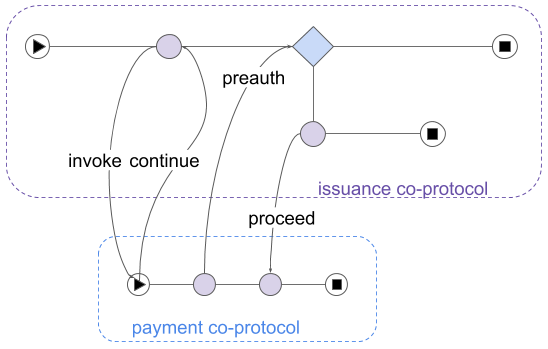
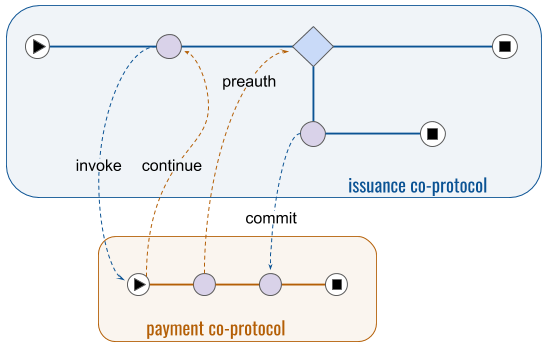
Partial update

diff --git a/concepts/0478-coprotocols/README.md b/concepts/0478-coprotocols/README.md
@@ -2,33 +2,31 @@
 - Authors: [Daniel Hardman](daniel.hardman@gmail.com)
 - Status: [PROPOSED](/README.md#proposed)
 - Since: 2020-05-19
-- Status Note: Socialized on Aries community call in Feb 2020, using [these slides](https://docs.google.com/presentation/d/17hk6QqLW5M9E4TBPZwXIUBu9eEinMNXReceyZTF4LpA/edit). Discussed again in May 2020.
+- Status Note: Socialized on Aries community call in Feb 2020, using [these slides](https://docs.google.com/presentation/d/17hk6QqLW5M9E4TBPZwXIUBu9eEinMNXReceyZTF4LpA/edit). Discussed again in May 2020. Source files for graphics are either checked in or are published at https://j.mp/2XgyjH3.
 - Start Date: 2020-02-03
 - Tags: feature, protocol
 
-![icon](icon.png)
-
-(originals of graphics at https://j.mp/2XgyjH3)
+[![icon](icon.png)](https://j.mp/2XgyjH3)
 
 ## Summary
 
-Explains how one protocol can invoke and influence others, giving inputs and receiving outputs and errors.
+Explains how one protocol can invoke and interact with others, giving inputs and receiving outputs and errors.
 
 ## Motivation
 
-It's common for complex business workflows to be composed from smaller, configurable units of logic. It's also common for multiple processes to evolve in interrelated ways. Achieving flexible reuse like this is one of the major goals of protocols built atop DIDComm. We need a standard methodology for doing so.
+It's common for complex business workflows to be composed from smaller, configurable units of logic. It's also common for multiple processes to unfold in interrelated ways, such that a complex goal is choreagraphed from semi-independent tasks. Enabling flexible constructions like this is one of the major goals of protocols built atop DIDComm. We need a standard methodology for doing so.
 
 ## Tutorial
 
 A [protocol is any recipe for a stateful interaction](../0003-protocols/README.md). [DIDComm](../0005-didcomm/README.md) itself is a protocol, as are many primitives atop which it is built, such as HTTP, Diffie-Hellman key exchange, and so forth. However, when we talk about protocols in decentralized identity, without any qualifiers, we usually mean application-level interactions like [credential issuance](../../features/0036-issue-credential/README.md), [feature discovery](../../features/0031-discover-features/README.md), [third-party introductions](../../features/0028-introduce/README.md), and so forth. These protocols are message-based interactions that use DIDComm.
 
-We want these protocols to be __composable__. In the middle of issuing credentials, we want to negotiate payment -- and in the middle of negotiating payment, we want to handle a network brownout and reconnect. We could build payment into credential issuance, and network connection management into payment, but this runs counter to the [DRY principle](https://en.wikipedia.org/wiki/Don%27t_repeat_yourself) and to general best practice in encapsulation. A good developer writing a script to issue credentials would probably isolate payment and connection management logic in separate functions or libraries, and would strive for [loose coupling](https://en.wikipedia.org/wiki/Loose_coupling) so each could evolve independently.
+We want these protocols to be __composable__. In the middle of issuing credentials, we want to challenge the potential holder for proof -- and in the middle of challenging for proof, maybe we want to negotiate payment. We could build proving into issuing, and payment into proving, but this runs counter to the [DRY principle](https://en.wikipedia.org/wiki/Don%27t_repeat_yourself) and to general best practice in encapsulation. A good developer writing a script to issue credentials would probably isolate payment and proving logic in separate functions or libraries, and would strive for [loose coupling](https://en.wikipedia.org/wiki/Loose_coupling) so each could evolve independently.
 
-Agents that run protocols have similar goals to the script developer. How we achieve them is the subject of this RFC.
+Agents that run protocols have goals like those of the script developer. How we achieve them is the subject of this RFC.
 
 ### Subroutines
 
-In the world of computer science, a subroutine is a foundational abstraction. It breaks logic into small, reusable chunks that are easy for a human to understand and document, and it formalizes their interfaces. Code calls a subroutine by referencing it via name or address, and providing specified arguments as input. The subroutine computes on this input, eventually producing an output; the details don't interest the caller. While the subroutine is busy, the caller typically waits. Callers can often avoid recompilation when encapsulated details in subroutines change. Implementations of subroutines can come from pluggable libraries. These can be written by different programmers in different programming languages, as long as a calling convention is shared by both parties.
+In the world of computer science, a subroutine is a vital abstraction for complex flows. It breaks logic into small, reusable chunks that are easy for a human to understand and document, and it formalizes their interfaces. Code calls a subroutine by referencing it via name or address, providing specified arguments as input. The subroutine computes on this input, eventually producing an output; the details don't interest the caller. While the subroutine is busy, the caller typically waits. Callers can often avoid recompilation when details inside subroutines change. Subroutines can come from pluggable libraries. These can be written by different programmers in different programming languages, as long as a calling convention is shared.
 
 Thinking of protocols as analogs to subroutines suggests some interesting questions:  
 
@@ -36,28 +34,35 @@ Thinking of protocols as analogs to subroutines suggests some interesting questi
 * How does a protocol emit an output?
 * What is the calling convention?
 * How do errors propagate (or exceptions get thrown and handled)?
+* How can we make protocols work like higher-order functions (functions that take other functions as parameters)?
 
 ### Coroutines
 
-Before we answer these questions, let's think about a generalization of subroutines that's slightly less familiar to some programmers: __coroutines__. As a category, coroutines are more flexible and powerful than subroutines; subroutines are just their simplest variant. Coroutines may be, but aren't required to be, derivative call-stack "children" of their callers; they can have complex lifecycles that begin or end outside the caller's lifespan. Coroutines may receive inputs at multiple points, not just at launch. They may yield outputs at multiple points, too.
+Before we answer these questions, let's think about a generalization of subroutines that's slightly less familiar to some programmers: __coroutines__. Coroutines achieve the same encapsulation and reusability as subroutines, but as a category they are more flexible and powerful. Coroutines may be, but aren't required to be, call-stack "children" of their callers; they may have complex lifecycles that begin or end outside the caller's lifespan. Coroutines may receive inputs at multiple points, not just at launch. They may yield outputs at multiple points, too. Subroutines are just the simplest variant of coroutines.
 
-The flexiblity of coroutines gives options to programmers, and it explains why most programming languages evolve to offer them as first-class constructs when they encounter demanding requirements for asynchronicity, performance, or scale. For example, early versions of python lacked the concept of coroutines; if you wrote a loop over `range(1, 1000000)`, python allocated a container holding 1 million numbers, and then iterated over them. When generators (a type of coroutine) were added to the language, the underlying logic changed. Now `range(1, 1000000)` is a coroutine invocation that trades execution state back and forth with its sibling caller routine. The first time it is invoked, it receives and stores its input values, then produces one output (the lower bound of the range). Each subsequent time through the loop it is invoked again; it increments its internal state and yields a new output back to the caller. No allocations occur, and an early break from the loop wastes nothing.
+The flexiblity of coroutines gives options to programmers, and it explains why most programming languages evolve to offer them as first-class constructs when they encounter demanding requirements for asynchronicity, performance, or scale. For example, early versions of python lacked the concept of coroutines; if you wrote a loop over `range(1, 1000000)`, python allocated and filled a container holding 1 million numbers, and then iterated over the container. When generators (a type of coroutine) were added to the language, the underlying logic changed. Now `range(1, 1000000)` is a coroutine invocation that trades execution state back and forth with its sibling caller routine. The first time it is invoked, it receives and stores its input values, then produces one output (the lower bound of the range). Each subsequent time through the loop it is invoked again; it increments its internal state and yields a new output back to the caller. No allocations occur, and an early break from the loop wastes nothing.
 
-If we want to choose one conceptual parallel for how protocols relate to one another, we should think of them a coroutines, not subroutines. Although payment as a subroutine inside credential issuance sounds plausible at first glance, it turns out to be clumsy under deeper analysis. A payment protocol yields more than one output -- typically a preauthorization at an intermediate stage, then a final outcome when it completes. At the preauthorization stage, it should accept graceful cancellation (a second input, after launch). And high-speed, bulk issuance of credentials is likely to benefit from payment and issuance being partly parallelized.
+If we want to choose one conceptual parallel for how protocols relate to one another, we should think of them as coroutines, not subroutines; doing so constrains us less. Although payment as a subroutine inside credential issuance sounds plausible at first glance, it turns out to be clumsy under deeper analysis. A payment protocol yields more than one output -- typically a preauthorization at an intermediate stage, then a final outcome when it completes. At the preauthorization stage, it should accept graceful cancellation (a second input, after launch). And high-speed, bulk issuance of credentials is likely to benefit from payment and issuance being partly parallelized instead of purely sequential.
 
 ![diagram of payment as a coprotocol](payment-coprotocol.png)
 
-Similarly, a handshake protocol like [DID Exchange](../../features/0023-did-exchange/README.md) or [Connection](../../features/0160/connection-protocol/README.md) is a coprotocol of [Introduce](../../features/0028-introduce/README.md); this makes it easy for Introduce to complete as soon as the handshake begins, instead of waiting for it to finish so it can contain its full lifecycle like a subroutine call.
+Similarly, a handshake protocol like [DID Exchange](../../features/0023-did-exchange/README.md) or [Connection](../../features/0160/connection-protocol/README.md) is best framed as a coprotocol of [Introduce](../../features/0028-introduce/README.md); this makes it easy for Introduce to complete as soon as the handshake begins, instead of waiting for the handshake to finish as if it were a subroutine.
  
- By thinking of protocols as coroutines, we can simplify to subroutines where that makes sense, but tap the added flexibility and power of coroutines where a design problem demands it.
+By thinking of cross-protocol interactions like coroutine interactions, we get the best of both worlds: where the interaction is just subroutine-like, the model lets us simplify; where we need more flexibility and power, the model still fits.
+ 
+Protocols don't have to support the types of coprotocol interactions we're describing here; protocols developed by Aries developers have already proven their value even without it. But to unlock their full potential, adding __coprotocol support__ to new and existing protocol definitions may be worthwhile. This requires only a modest update to a protocol RFC, and creates little extra work for implementers.
 
-### The simple answer that falls apart
+### The simple approach that falls apart
 
-When the DIDComm community first began thinking about one protocol invoking another, we imagined that the interface to the called coprotocol would simply be its first message. For example, if verfiable credential issuer Acme Corp wanted to demand payment for a credential during an issuance protocol with Bob, Acme would simply send to Bob a `request_payment` message that was the first message in a `make_payment` protocol. This would create an instance of the payment protocol running beside issuance; issuance could then wait until it completes before proceeding.
+When the DIDComm community first began thinking about one protocol invoking another, we imagined that the interface to the called coprotocol would simply be its first message. For example, if verfiable credential issuer Acme Corp wanted to demand payment for a credential during an issuance protocol with Bob, Acme would send to Bob a `request_payment` message that constituted the first message in a `make_payment` protocol. This would create an instance of the payment protocol running alongside issuance; issuance could then wait until it completed before proceeding. And Bob wouldn't need to lift a finger to make it work, if he already supported the payment protocol.
 
 Unfortunately, this approach looks less attractive after study: 
 
-* It creates a tight coupling between issuance and payment. The logic inside issuance must know exactly what data format, semantics, and versioning rules apply to the payment protocol, in order to generate its first message. If the payment protocol changes, the issuance protocol breaks. There is no room to discover a payment protocol from one of several alternatives that both parties mutually support.
+* It creates a tight coupling between issuance and payment. The logic inside issuance must know exactly what data format, semantics, and versioning rules apply to the payment protocol, in order to generate its first message. If the payment protocol changes, the issuance protocol breaks. There is no flexibility in issuance to negotiate an optimal payment protocol from among several alternatives that both parties support. The implementation of issuance is too opinionated about how to approach a logically independent task.
+
+* It doesn't give Bob any context. We don't want to inconvenience Bob to support payment in conjunction with issuance, but we DO want Bob to know that the payment protocol instance he participates in is related to the credential issuance protocol that's also underway. This is more than just connecting the two with DIDComm's [message threading](../0008-message-id-and-threading/README.md); if one protocol is abandoned or completes or fails, something probably needs to happen in the other.
+
+* It doesn't let Bob be the first mover. What if Bob should be requesting payment instead of Acme? (The [Protocol Role Request Protocol](https://github.com/hyperledger/aries-rfcs/blob/29c982e80bf29763a29ac9d036b332acd4b6f525/features/0474-protocol-role-request/index.md) partly addresses this need, but [lacks a formal way to give Bob data as input](https://github.com/hyperledger/aries-rfcs/pull/474/files#r424683769).)  
 
 * It doesn't explain how the payment protocol emits output that its caller can consume. Individual agents could code proprietary answers to this question, but interoperability would be lost.
 
@@ -65,62 +70,52 @@ Unfortunately, this approach looks less attractive after study:
 
 * It doesn't explain how errors propagate, or how to decide what they mean for the calling protocol.
 
-### General Interface
+### General Interface Needs
 
-What we want, instead, is a formal declaration of a protocol's properties. Theoretically, it might resemble a function prototype in some ways, in that it would describe the inputs that launch the protocol, and it might also describe an output and/or error that the protocol emits when it finishes. But it must also be capable of describing errors, inputs, and outputs at other stages of the protocol's lifecycle.
+What we want, instead, is a formal declaration of something a bit like a coprotocol's "function signature." It needs to describe the inputs that launch the protocol, and the outputs and/or errors emitted as it finishes. It should hide implementation details and remain stable across irrelevant internal changes. 
 
-Unlike normal functions in code, protocols nearly always involve another codebase running remotely (the other party in the protocol); thus, the interface also needs to include enough information to dynamically discover/bind pluggable implementations at run-time, like a `load_library()` call in Posix.
+We need to bind compatible coprotocols to one another using the metadata in these declarations. And since coprotocols will have to satisfy a remote party, not just a local one, our binding needs to work well dynamically, and late, and with optional, possibly overlapping plugins providing implementations. This suggests that our declarations must be rich and flexible about binding criteria &mdash; it must be possible to match on something more than just a coprotocol name and/or arg count+type.
 
-Also unlike functions, protocol interfaces need to be partitioned by role; the experience of a payer and a payee with respect to a payment protocol may be quite different, so the interface used by a coprotocol will vary by which role the coprotocol instance embodies.
+An interesting divergence from the function signature parallel is that we may have to describe inputs and outputs (and errors) at multiple __interaction points__, not just the coprotocol's initial invocation. 
 
-Suppose we have an imaginary payment protocol with 2 roles, `payer` and `payee`, in which the payer goes through 3 states: `authorizing` (when it is seeking a pre-authorization), `uncommitted` (when it has a preauthorization but has not yet been told to finalize payment), and `done` (when the final outcome of the payment is known. The structure in the following example might constitutes a formal __coprotocol interface__ for the `payer` role:
+Another subtlety is that protocol interfaces need to be partitioned by role; the experience of a payer and a payee with respect to a payment protocol may be quite different. The interface offered by a coprotocol must vary by which role the invoked coprotocol instance embodies.
 
-```jsonc
-{
-    // Used in discovery. Takes the form: role@goal-name/goal-version.
-    //
-    // A protocol that needs to depend on a co-protocol should
-    // consider being willing to bind to any protocol that implements
-    // the role it needs, with the goal it has. This allows code on
-    // one agent to find a list of implementations it might use, and
-    // then negotiate with a remote party until a compatible co-protocol
-    // is chosen on the other side.
-    //
-    // Goals should be defined in their own RFCs. Based on what appears
-    // below, we'd expect to find an Aries RFC about a "make-payment"
-    // goal. Goals have known semantics but stop short of the implementation
-    // detail provided in protocol RFCs.
-    "goal": "payer@make-payment/1.0",
+Given all these considerations, we choose to describe coprotocol interfaces using a _set_ of function signatures, not just _one_. However, we use an function-like notation to make them as terse and intuitive as possible for developers.
 
-    // A set of points at which the coprotocol can interact.
-    "interactions": [
-        {
-            "state_name": null, // null defined to mean "at invocation"
-            // To launch this as a co-protocol, you must provide 2 or 3
-            // inputs: amount, currency, and note.
-            "inputs": [
-                {"name": "amount", "ex": 1.23},
-                {"name": "currency", "ex": "INR"},
-                {"name": "note", "ex": "For commercial driver's license credential.", optional: true}
-            ]
-        },
-        {
-            "state_name": "(END)" // reserved to mean "on termination"
-        }
-        {
-            "state_name": "(END)" // reserved to mean "on termination"
-        }
-    ]
-}
+#### Example
+
+Suppose we are writing a credential issuance protocol, and we want to use coprotocols to add support for situations where the issuer expects payment partway through the overall flow. We'd like it to be possible for our payment step to use Venmo/Zelle, or cryptocurrency, or traditional credit cards, or anything else that issuers and holders agree upon. So we want to encapsulate the payment problem as a pluggable, discoverable, negotiable coprotocol.
+
+We do a little research and discover that many DIDComm-based payment protocols exist. Three of them advertise support for the same coprotocol interface:
+
+```yaml
+goal: make-payment
+version: 1.0
+payee:
+  get:
+      - invoke(amount: float, currency: str, bill_of_sale: str) @ null
+      - proceed(continue: bool) @ requested:, waiting-for-commit
+  give:
+      - preauth(code: str) @ waiting-for-commit
+      - return(confirmation_code: str) @ finalizing
 ```
 
+In plain English, the declared coprotocol semantics are:
 
-* How do we invoke one protocol from another?
-* How does a protocol emit an output?
-* What is the calling convention?
-* How do errors propagate (or exceptions get thrown and handled)?
+>This is a coprotocol interface for protocols that facilitate the 'make-payment' goal version 1.0. The `payee` role in this coprotocol gets input at two interaction points, "invoke" and "proceed". Invoke happens when state is null (at launch); "proceed" happens when state is "requested" or "waiting-for-commit." At invoke, the caller of the co-protocol provides 3 inputs: an amount, a currency, and a bill of sale. At proceed, the caller decides whether to continue. Implementations of this coprotocol interface also give output at two interaction points, "preauth" and "return." At preauth, the output is a string that's a preauth code; at return, the output is a confirmation code.
 
-All of these answers are embodied in a protocol's formal __interface__. 
+##### Simplified description only
+
+It's important to understand that this interface is NOT the same as the protocol's direct interface (the message family and state machine that a protocol impl must provide to implement the protocol as documented). It is, instead, a simplified encapuslation -- just like a function signature is a simplified encapsulation of a coroutine. A function impl can rename its args for internal use. It can have steps that the caller doesn't know about. The same is true for protocols: their role names, state names, message names, and field names in messages don't need to be exposed directly in a coprotocol interface; they just need a mapping that the protocol understands internally. The specific payment protocol implementation might look like this:
+
+![a specific payment protocol that uses a gateway + smart contracts](payment_protocol.png)
+
+But when we describe it as a coprotocol, we omit most of the details, and we change some verbiage. The existence of the `payee`, `gateway` and `blockchain` roles is suppressed, as is the role of smart contracts. The concept of `handle to pending txn` is mapped to the coprotocol's `preauth` construct, and `txn hash` is mapped to the coprotocol's `confirmation_code`. As a coprotocol, the payee can interact according to a far simpler understanding, where the caller asks the payee to engage in a payment protocol, expose some simple hooks, and notify on completion:
+
+![when viewed as a coprotocol](as_coprotocol.png)
+
+
+
 
 ## Reference
 
